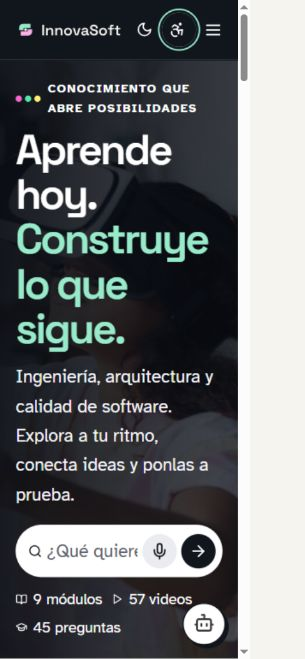
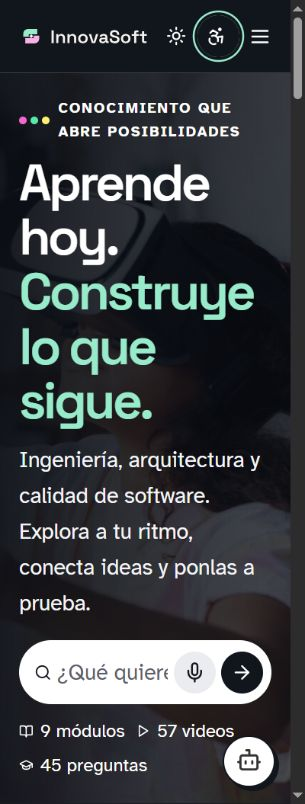
Refresh README screenshots and walkthrough for current interface

diff --git a/README.md b/README.md
@@ -4,13 +4,13 @@ Una biblioteca para conectar ideas de ingeniería, arquitectura y calidad de sof
 
 **[Abrir la aplicación](https://analizajech.github.io/InnovaSoft/)** · [Validación de accesibilidad](docs/ACCESSIBILITY.md)
 
-![Biblioteca con buscador, filtros e iconos por módulo](docs/media/library.jpg)
+![Biblioteca con buscador, filtros e iconos por módulo](docs/media/library.jpg?v=clean-routes-20261005)
 
 ## Recorrido del sistema
 
 GIF elaborado a partir de capturas reales: biblioteca → filtros → guardados → módulo → audio → conceptos → cuestionario → accesibilidad → tema oscuro.
 
-![Recorrido animado de InnovaSoft](docs/media/demo.gif)
+![Recorrido animado de InnovaSoft](docs/media/demo.gif?v=clean-routes-20261005)
 
 ## Aprende a tu manera
 
@@ -24,20 +24,20 @@ GIF elaborado a partir de capturas reales: biblioteca → filtros → guardados 
 
 ## Contenido y controles
 
-![Módulo con acciones redondas y controles de lectura](docs/media/module.jpg)
+![Módulo con acciones redondas y controles de lectura](docs/media/module.jpg?v=clean-routes-20261005)
 
-![Introducción destacada, temas visuales y acciones del módulo](docs/media/content.jpg)
+![Introducción destacada, temas visuales y acciones del módulo](docs/media/content.jpg?v=clean-routes-20261005)
 
-![Cuestionario con opciones redondas y foco visible](docs/media/quiz.jpg)
+![Cuestionario con opciones redondas y foco visible](docs/media/quiz.jpg?v=clean-routes-20261005)
 
 ## Móvil y accesibilidad
 
 <p>
-  <img src="docs/media/mobile.jpg" alt="Biblioteca en una pantalla móvil de 390 píxeles" width="300" />
-  <img src="docs/media/mobile-large-text.jpg" alt="Biblioteca a 320 píxeles con texto al 150 por ciento" width="246" />
+  <img src="docs/media/mobile.jpg?v=clean-routes-20261005" alt="Biblioteca en una pantalla móvil de 390 píxeles" width="300" />
+  <img src="docs/media/mobile-large-text.jpg?v=clean-routes-20261005" alt="Biblioteca a 320 píxeles con texto al 150 por ciento" width="246" />
 </p>
 
-![Panel de ajustes de accesibilidad](docs/media/accessibility.jpg)
+![Panel de ajustes de accesibilidad](docs/media/accessibility.jpg?v=clean-routes-20261005)
 
 ## Nuevos temas
 
@@ -46,13 +46,13 @@ GIF elaborado a partir de capturas reales: biblioteca → filtros → guardados 
 - UX y accesibilidad: investigación, teclado, alternativas y evaluación. [MDN](https://developer.mozilla.org/en-US/docs/Learn_web_development/Core/Accessibility).
 - Seguridad de aplicaciones: permisos, entradas, secretos y dependencias. [OWASP](https://owasp.org/projects/top-ten).
 
-![Exploración de los módulos incorporados](docs/media/new-topics.jpg)
+![Exploración de los módulos incorporados](docs/media/new-topics.jpg?v=clean-routes-20261005)
 
 Son introducciones educativas con ejercicios; los cinco módulos originales y sus recursos se conservan.
 
 ## Audio e idiomas
 
-![Menús de audio personalizados y redondeados](docs/media/audio.jpg)
+![Menús de audio personalizados y redondeados](docs/media/audio.jpg?v=clean-routes-20261005)
 
 
 El material está escrito en **español**. El selector permite español de Colombia, México o España; no traduce el contenido a otros idiomas. La lectura busca una voz de la región seleccionada, permite elegir otra voz en español y recuerda la velocidad.
